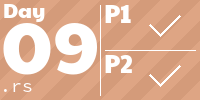
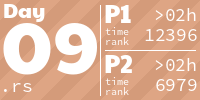
2024 day 9 solutions

diff --git a/2024/src/bin/09.rs b/2024/src/bin/09.rs
@@ -1,33 +1,100 @@
+use std::time::Instant;
+
 static INPUT_TXT: &str = include_str!("../../input/09.txt");
 
 fn main() {
-    println!("Part 1: {}", part_1(INPUT_TXT));
-    println!("Part 2: {}", part_2(INPUT_TXT));
+    println!("🌟 --- Day 9 Results --- 🌟");
+    let start_1 = Instant::now();
+    let res_1 = part_1(INPUT_TXT);
+    let duration_1 = start_1.elapsed().as_millis();
+    println!("📌 Part 1: {res_1}, complete in {duration_1} ms");
+
+    let start_2 = Instant::now();
+    let res_2 = part_2(INPUT_TXT);
+    let duration_2 = start_2.elapsed().as_millis();
+    println!("📌 Part 2: {res_2}, complete in {duration_2} ms");
 }
 
-fn part_1(_input: &str) -> u32 {
-    0
+fn compact_disk(disk: Vec<(usize, i32)>) -> usize {
+    (0..disk.len())
+        .rev()
+        .fold(disk, |mut acc, i| {
+            let (size, id) = acc[i];
+            if id == -1 {
+                return acc;
+            }
+            if let Some(j) = acc[0..i].iter().position(|&(s, id)| id == -1 && size <= s) {
+                let (empty_size, _) = acc[j];
+                acc[j] = (size, id);
+                acc[i] = (size, -1);
+                if size < empty_size {
+                    acc.insert(j + 1, (empty_size - size, -1));
+                }
+            }
+            acc
+        })
+        .iter()
+        .flat_map(|&(s, id)| std::iter::repeat(id).take(s))
+        .enumerate()
+        .filter(|&(_, id)| id != -1)
+        .map(|(i, id)| i * id as usize)
+        .sum()
 }
 
-fn part_2(_input: &str) -> u32 {
-    0
+fn part_1(input: &str) -> usize {
+    let mut id = 0;
+    compact_disk(
+        input
+            .trim()
+            .bytes()
+            .enumerate()
+            .flat_map(|(i, b)| {
+                let value = if i % 2 == 0 {
+                    id += 1;
+                    id - 1
+                } else {
+                    -1
+                };
+                (0..b - b'0').map(move |_| (1, value))
+            })
+            .collect(),
+    )
+}
+
+fn part_2(input: &str) -> usize {
+    let mut id = 0;
+    compact_disk(
+        input
+            .trim()
+            .bytes()
+            .enumerate()
+            .map(|(i, b)| {
+                let value = if i % 2 == 0 {
+                    id += 1;
+                    id - 1
+                } else {
+                    -1
+                };
+                ((b - b'0') as usize, value)
+            })
+            .collect(),
+    )
 }
 
 #[cfg(test)]
 mod tests {
     use super::*;
-    static INPUT: &str = "";
-    static INPUT_2: &str = "";
+    static INPUT: &str = "2333133121414131402";
 
     #[test]
     fn test_part_1() {
-        assert_eq!(part_1(INPUT), 0);
-        assert_eq!(part_1(INPUT_TXT), 0);
+        assert_eq!(part_1(INPUT), 1928);
+        assert_eq!(part_1(INPUT_TXT), 6323641412437);
     }
 
     #[test]
     fn test_part_2() {
-        assert_eq!(part_2(INPUT_2), 0);
-        assert_eq!(part_2(INPUT_TXT), 0);
+        assert_eq!(part_2(INPUT), 2858);
+        assert_eq!(part_2(INPUT_TXT), 6351801932670);
     }
 }

diff --git a/README.md b/README.md
@@ -4,7 +4,7 @@ Solutions for [adventofcode.com](https://adventofcode.com)
 
  <!-- AOC TILES BEGIN -->
 <h1 align="center">
-  2024 - 16 ⭐
+  2024 - 18 ⭐
 </h1>
 <a href="2024/src/bin/01.rs">
   <img src=".aoc_tiles/tiles/2024/01.png" width="161px">
@@ -29,6 +29,9 @@ Solutions for [adventofcode.com](https://adventofcode.com)
 </a>
 <a href="2024/src/bin/08.rs">
   <img src=".aoc_tiles/tiles/2024/08.png" width="161px">
+</a>
+<a href="2024/src/bin/09.rs">
+  <img src=".aoc_tiles/tiles/2024/09.png" width="161px">
 </a>
 <h1 align="center">
   2023 - 50 ⭐
